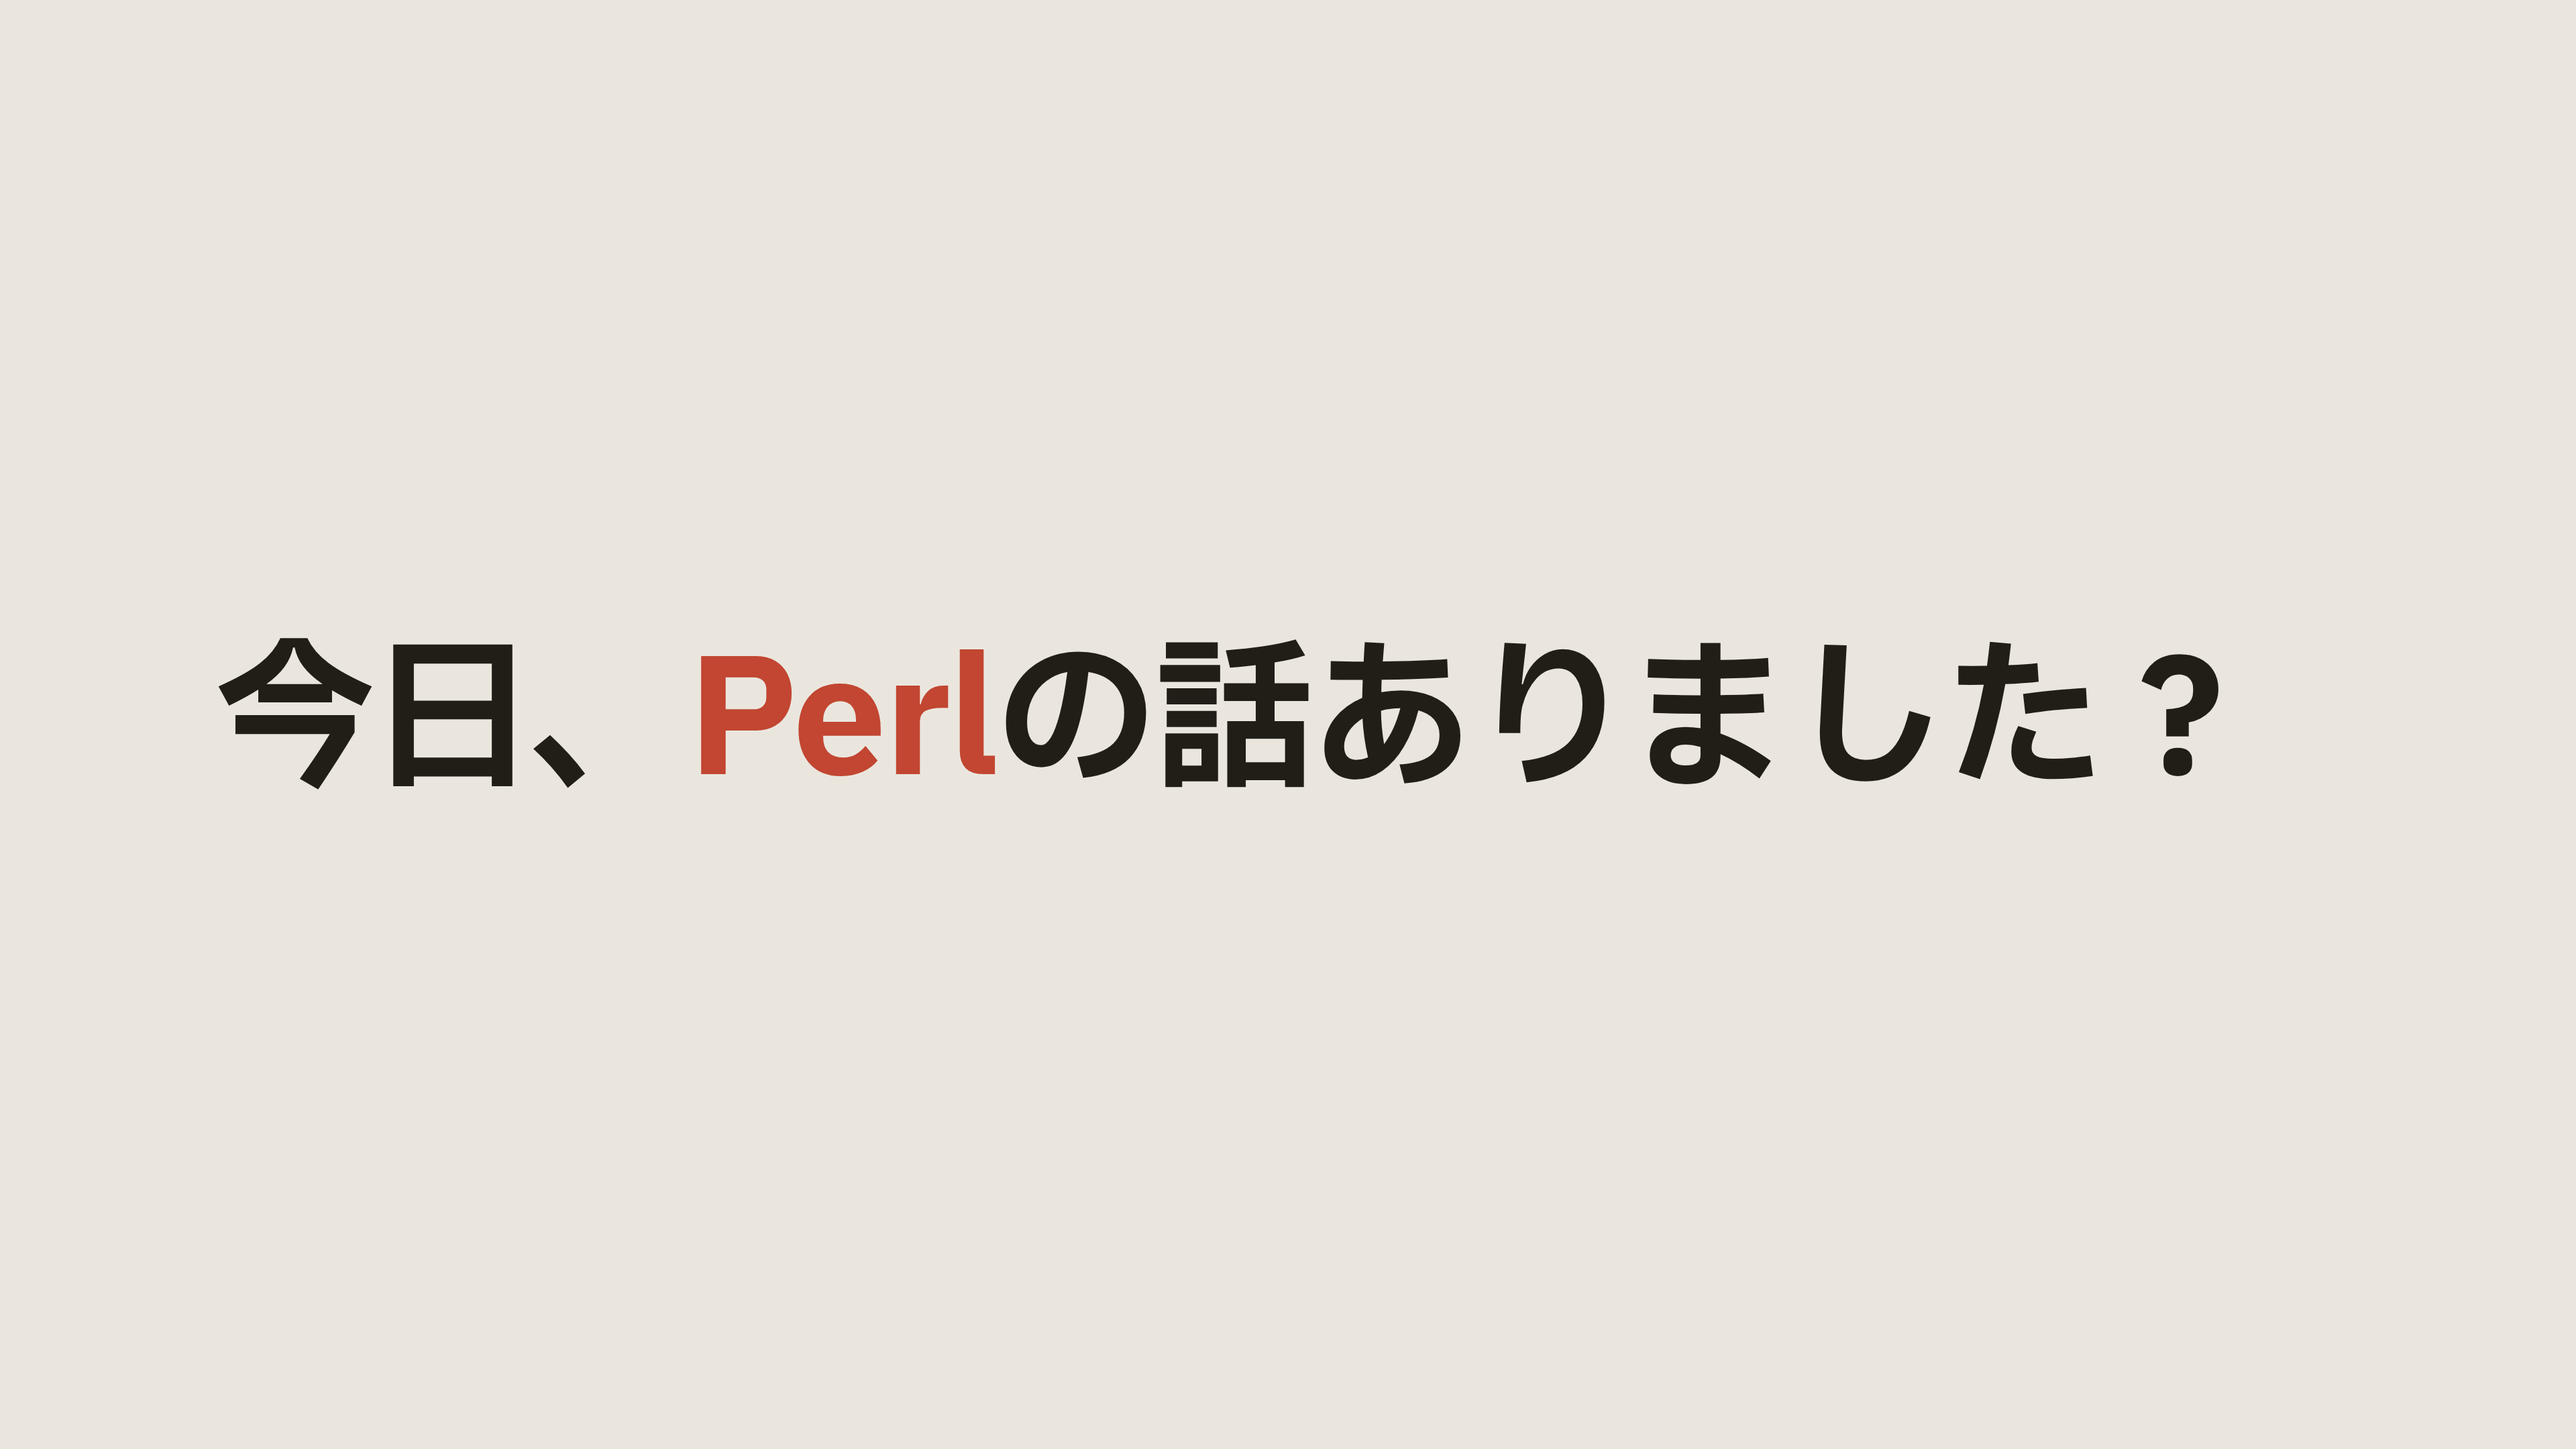
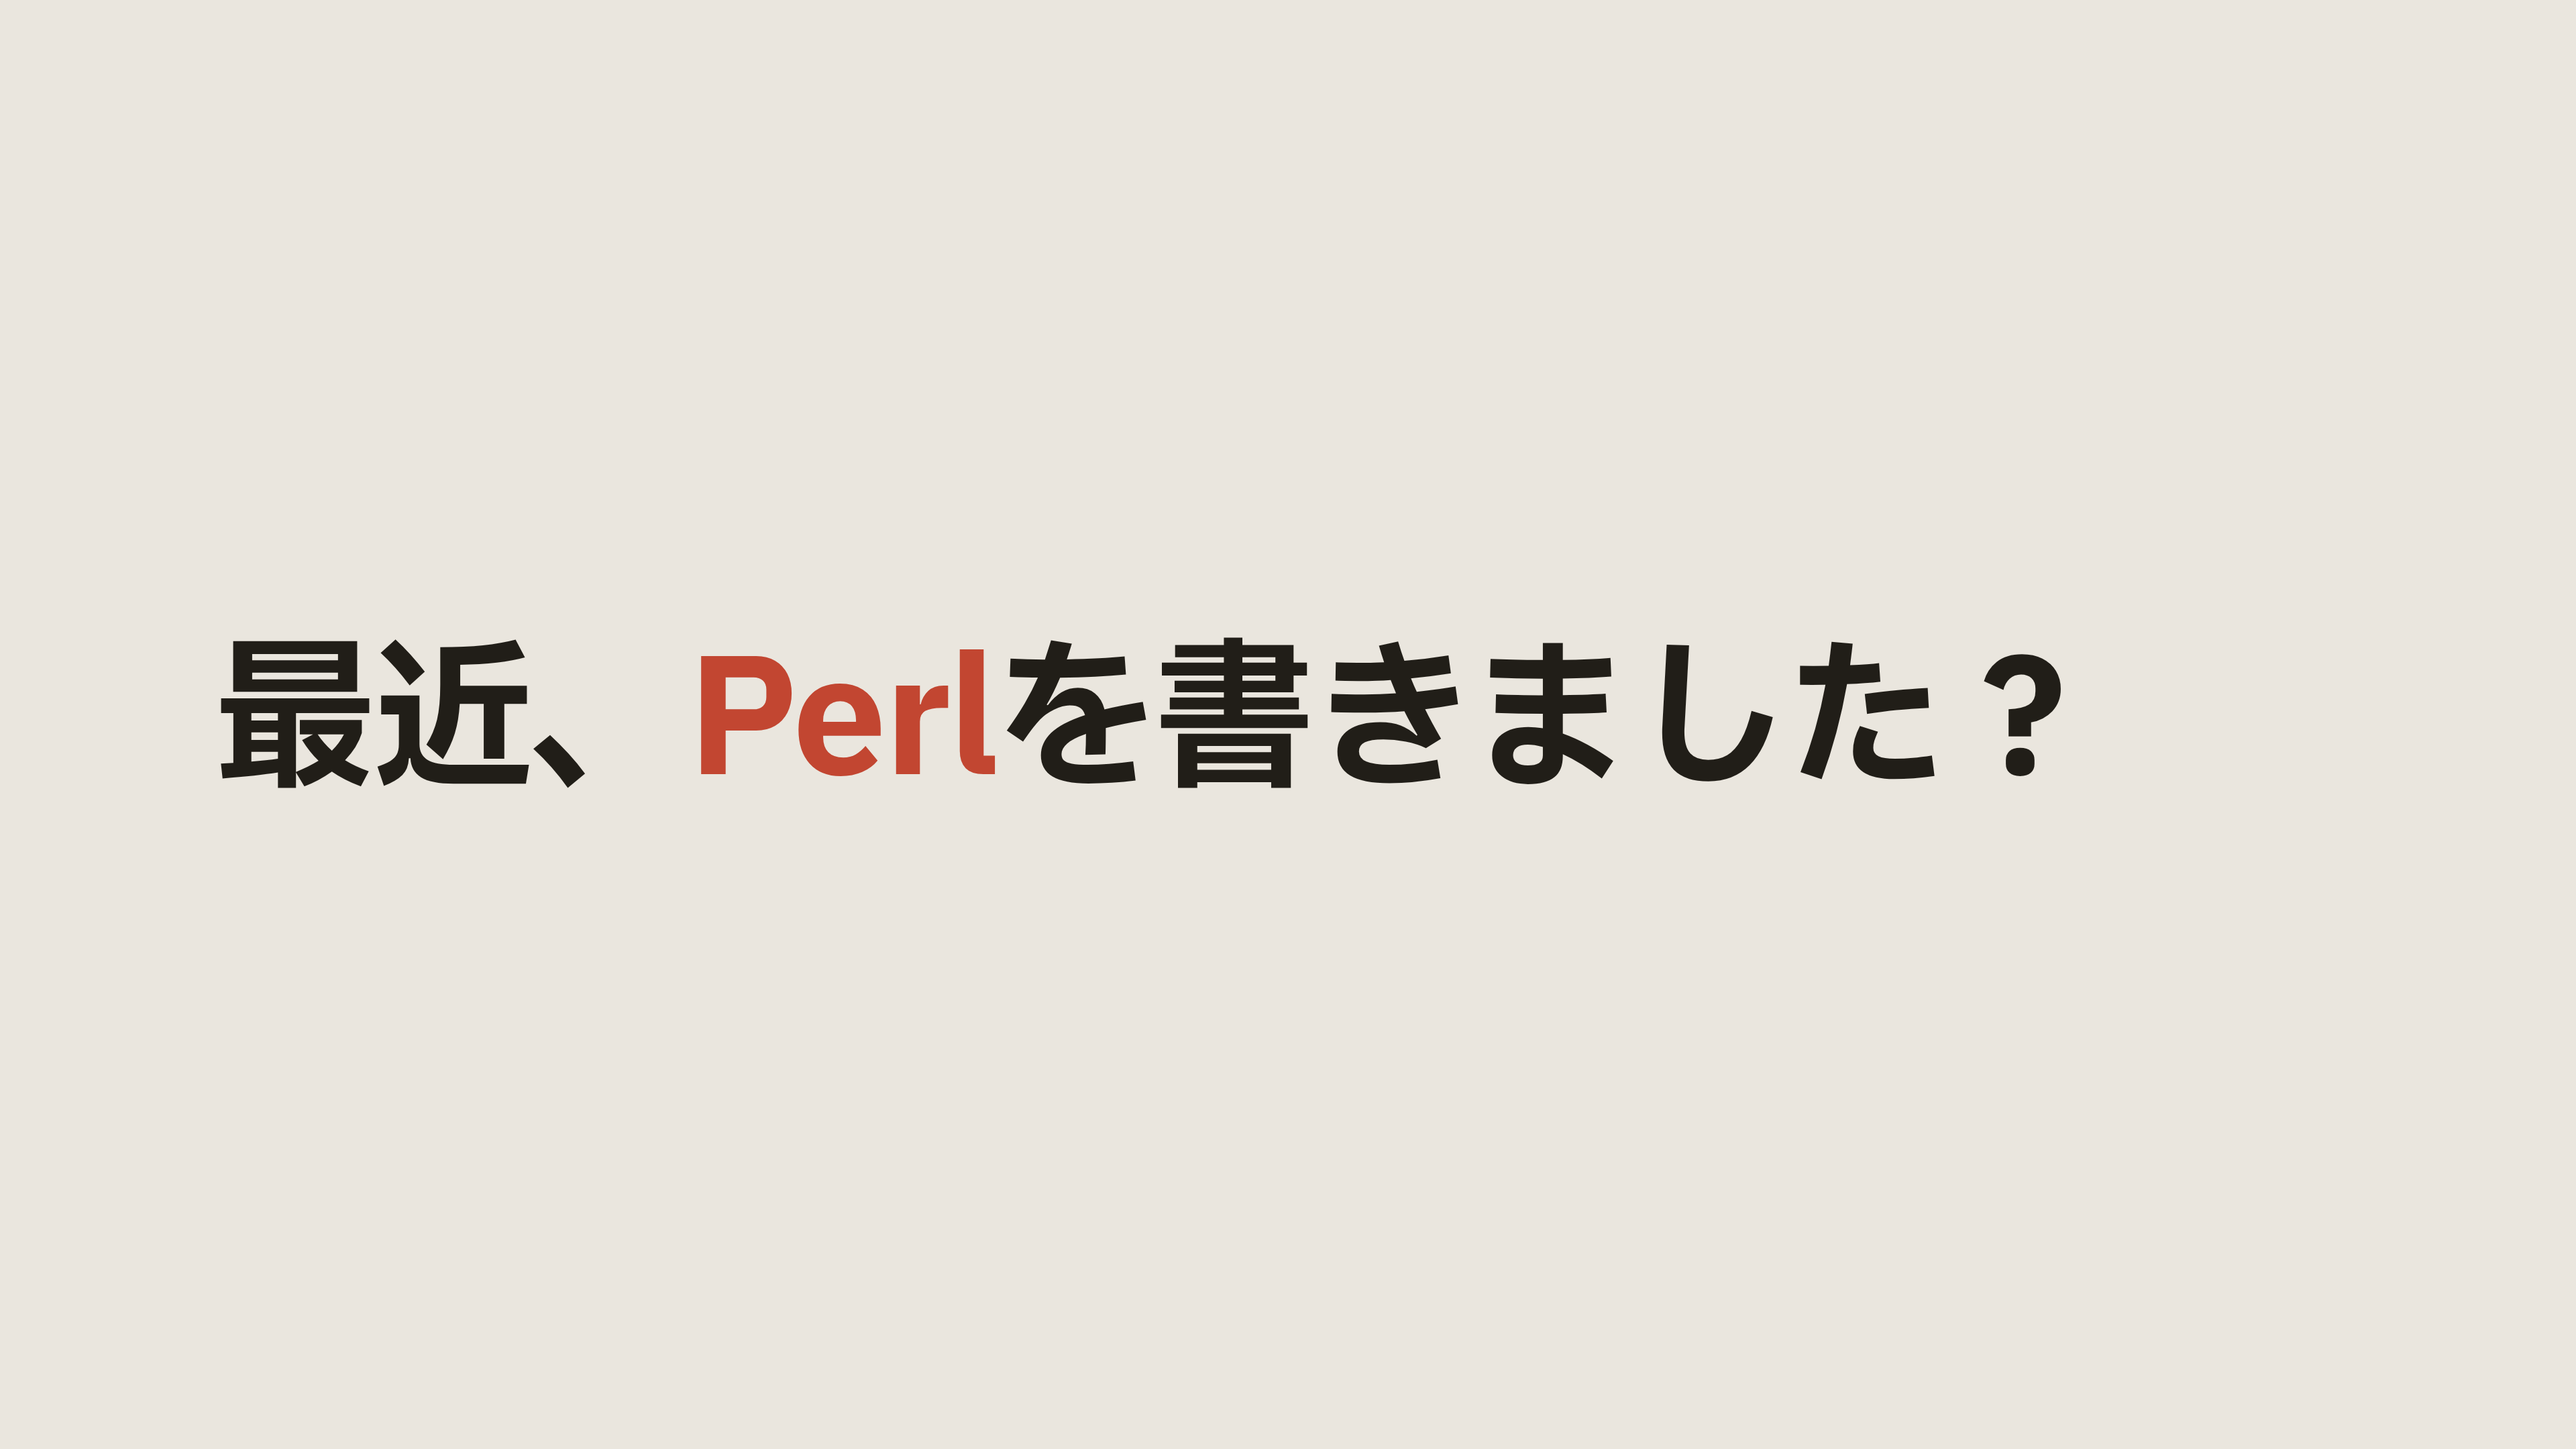
update

Changed region(s): [[0.375, 0.4343, 0.875, 0.5583], [0.0625, 0.4343, 0.2188, 0.5583]]

diff --git a/slidev/lightning-talks-in-generative-ai-era/slides.md b/slidev/lightning-talks-in-generative-ai-era/slides.md
@@ -36,7 +36,7 @@ fonts:
 ---
 
 <StatementSlide>
-今日、<span class="accent">Perl</span>の話ありました？
+最近、<span class="accent">Perl</span>を書きました？
 </StatementSlide>
 
 ---
@@ -106,7 +106,7 @@ Perlを書いてもらいました
     みんなにPerlを<span class="accent">動かして</span>もらいたい
   </template>
   <template #action>
-    ECS Fargateを<br/>
+    コンテナをクラウドに<br/>
     <span class="accent">いっぱい</span>用意
   </template>
 </ProblemActionSlide>
@@ -118,14 +118,12 @@ Perlを書いてもらいました
     みんなにPerlを<span class="accent">動かして</span>もらいたい
   </template>
   <template #action>
-    AWSに<br/>
     <span class="accent">クォータ引き上げ</span><br/>
     を依頼
   </template>
 </ProblemActionSlide>
 
 ---
-
 
 <ProblemActionSlide>
   <template #problem>
@@ -137,6 +135,18 @@ Perlを書いてもらいました
 </ProblemActionSlide>
 
 ---
+
+<ProblemActionSlide>
+  <template #problem>
+    当日<span class="accent">障害</span>が起きたら？
+  </template>
+  <template #action>
+    <span class="accent">AWSとGoogle Cloudに</span><br/>展開
+  </template>
+</ProblemActionSlide>
+
+---
+
 
 <ArchitectureSlide />
 
